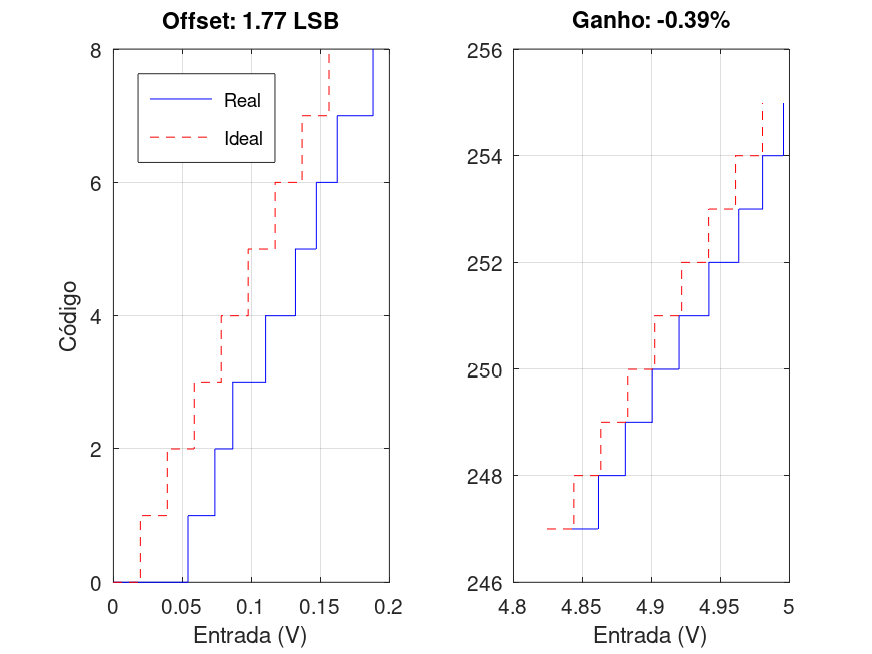
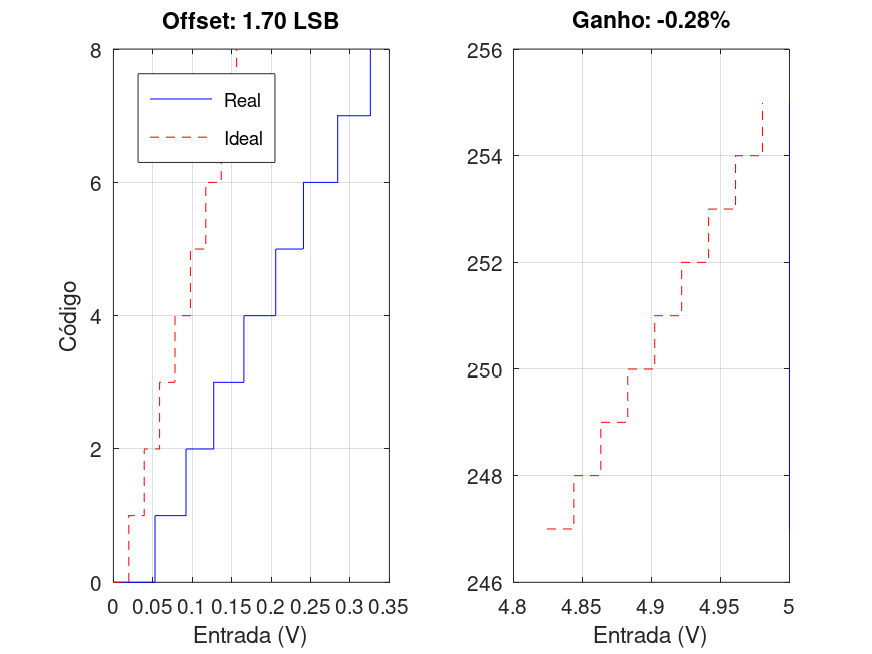
Versão quase final

diff --git a/Problema2.m b/Problema2.m
@@ -24,12 +24,12 @@ end
 MODO      = 'arquivo';             % 'serial' (Arduino) ou 'arquivo' (csv salvo)
 %PORTA     = 'COM5';              % WINDOWS - Abre a porta serial que esta no microcontrolador
 PORTA     = "/dev/ttyUSB0";       % LINUX - Abre a porta serial que esta no microcontrolador
-ARQUIVO   = 'captura.csv';
+ARQUIVO   = 'captura_2_2.5V.csv';
 FS        = 16e6/(8*(38+1));      % fs nominal: OCR1A = 38 -> 51 282 SPS
 F_GERADOR = 100;                  % frequência do gerador (Hz)
 VREF      = 5.0;                  % AVcc medido
 VIN_MIN   = 0.0;                  % extremos da triangular (osciloscópio)
-VIN_MAX = 5.0;
+VIN_MAX = 2.5;
 Q         = VREF/256;             % degrau de quantização (8 bits)
 
 %% 1) Recepção dos dados (requisitos 3 e 4)
@@ -79,7 +79,9 @@ xlim([0 30]);
 title('Sinal capturado x triangular ideal');
 legend('Real', 'Ideal');
 subplot(2,1,2);                                   % zoom: entrada, amostras e retenção
-j = find(c_id >= 128, 1) + (-8:8);
+meio = round((min(c) + max(c))/2);                                        % meio da faixa capturada
+sobe_meio = find(c_id(9:end-9) < meio & c_id(10:end-8) >= meio, 1) + 9;  % 1ª subida pelo meio
+j = sobe_meio + (-8:8);
 plot(t(j)*1e3, v_id(j), 'k');
 hold on;
 plot(t(j)*1e3, c(j)*Q, 'bo', 'markerfacecolor', 'b');   % amostras (antes era o stem)
